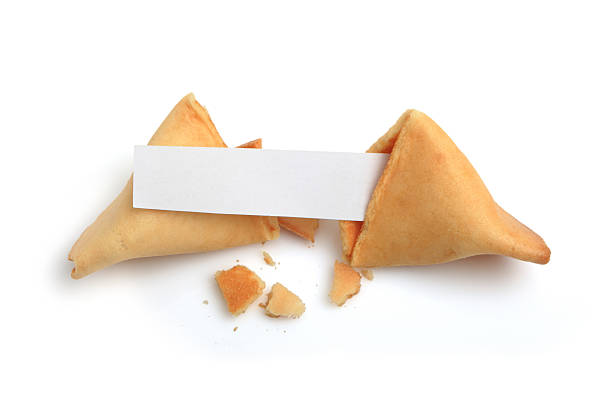
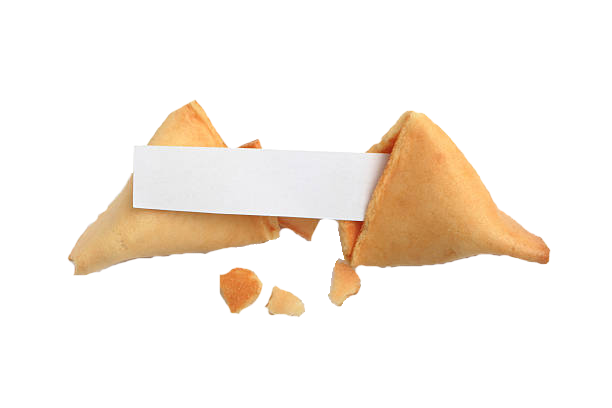
added fortunecookie image on the left section

diff --git a/public/index.html b/public/index.html
@@ -12,7 +12,7 @@
     <div class="fortuneCookie">
       <p>check today's fortune</p>
       <div class="cookieImg">
-        <img src="" alt="">
+        <img src="../public/img/fortuneCookie.jpg" alt="fortuneCookie-img" height="350px" width="420px">
       </div>
     </div>
     <div class="Form">

diff --git a/public/main.css b/public/main.css
@@ -36,5 +36,15 @@
 }
 
 #app .Form {
-  
+  display: flex;
+  align-self: center;
+  flex-direction: column;
+  margin: 10px;
+  border: none;
+}
+
+.cookieImg {
+  justify-self: center;
+  display: flex;
+  margin-top: 235px;
 }
